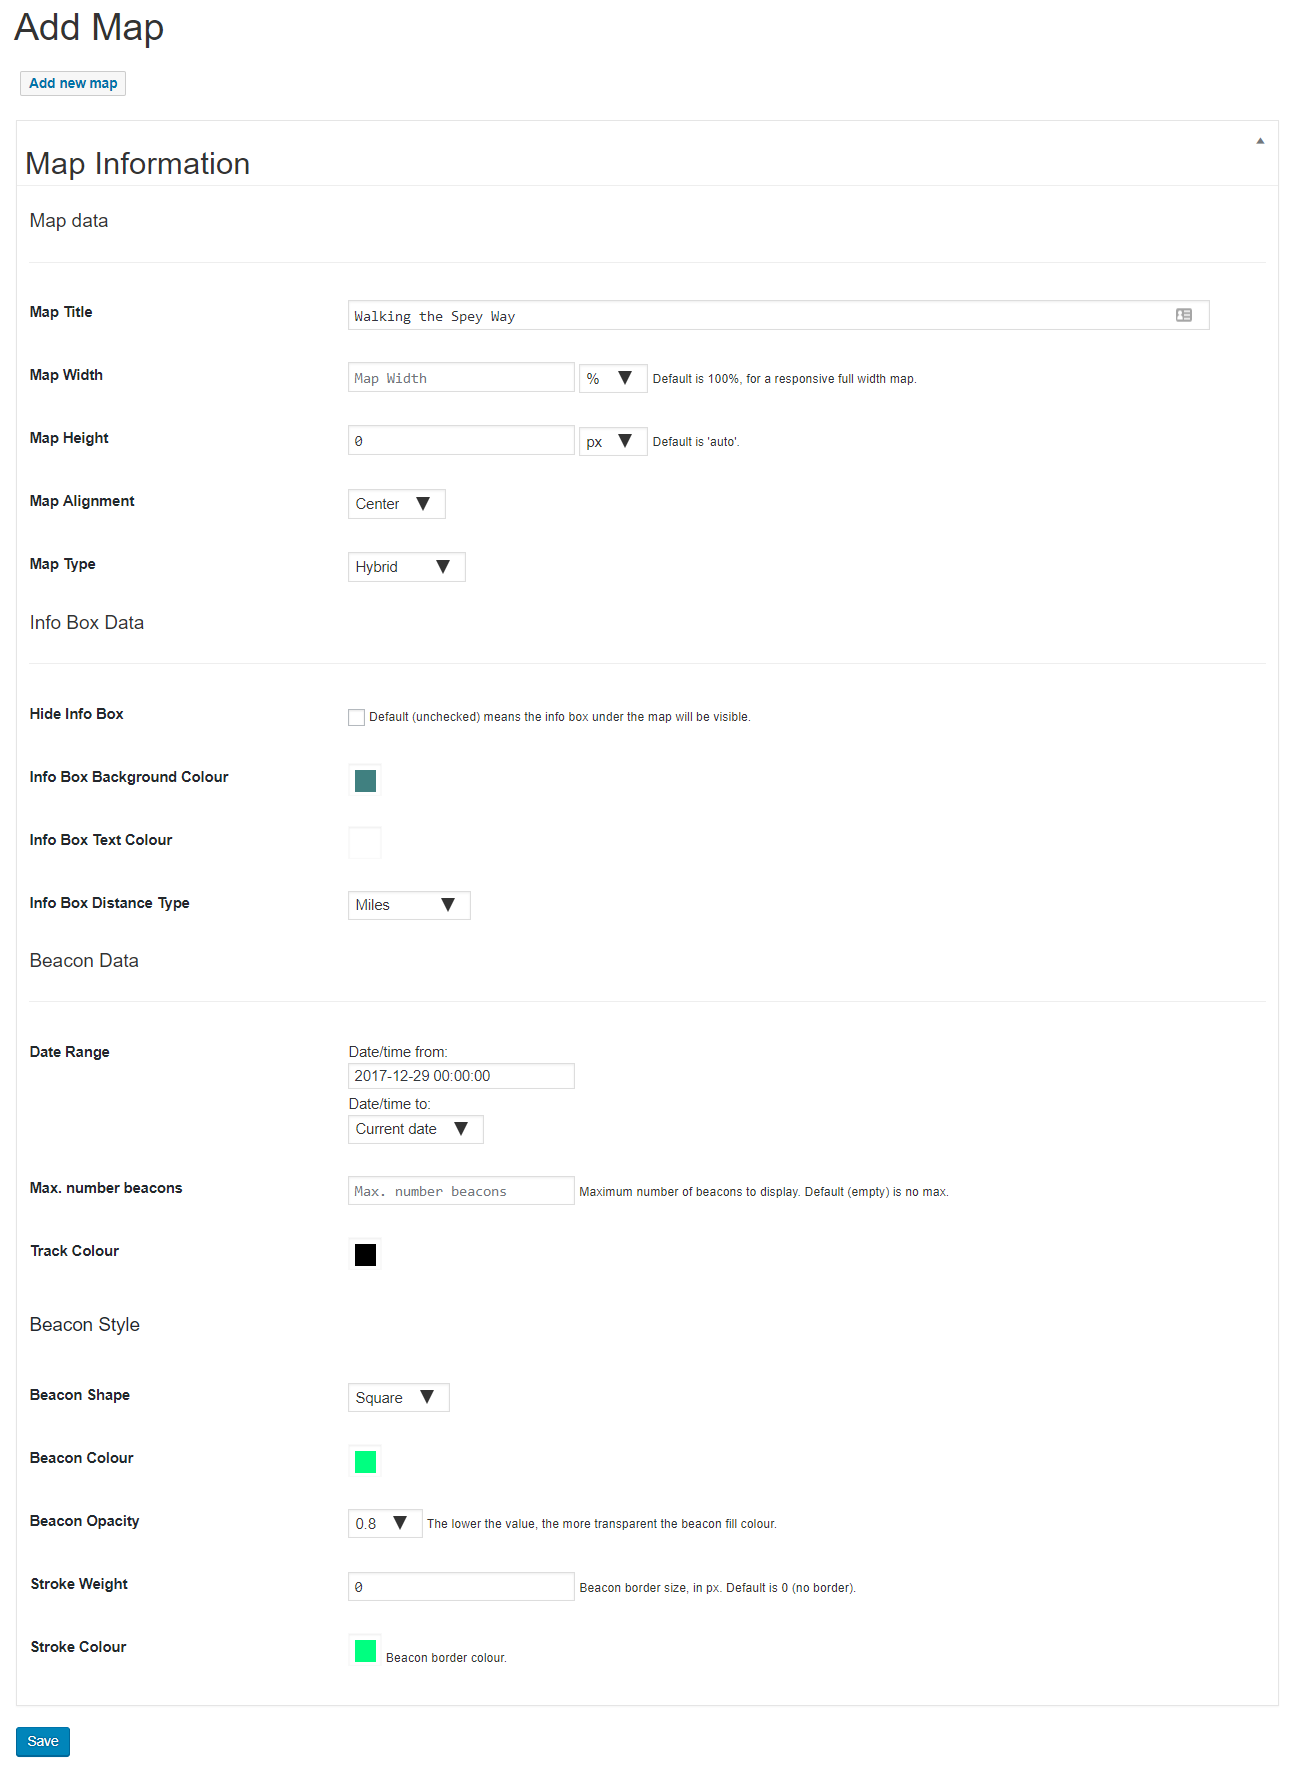
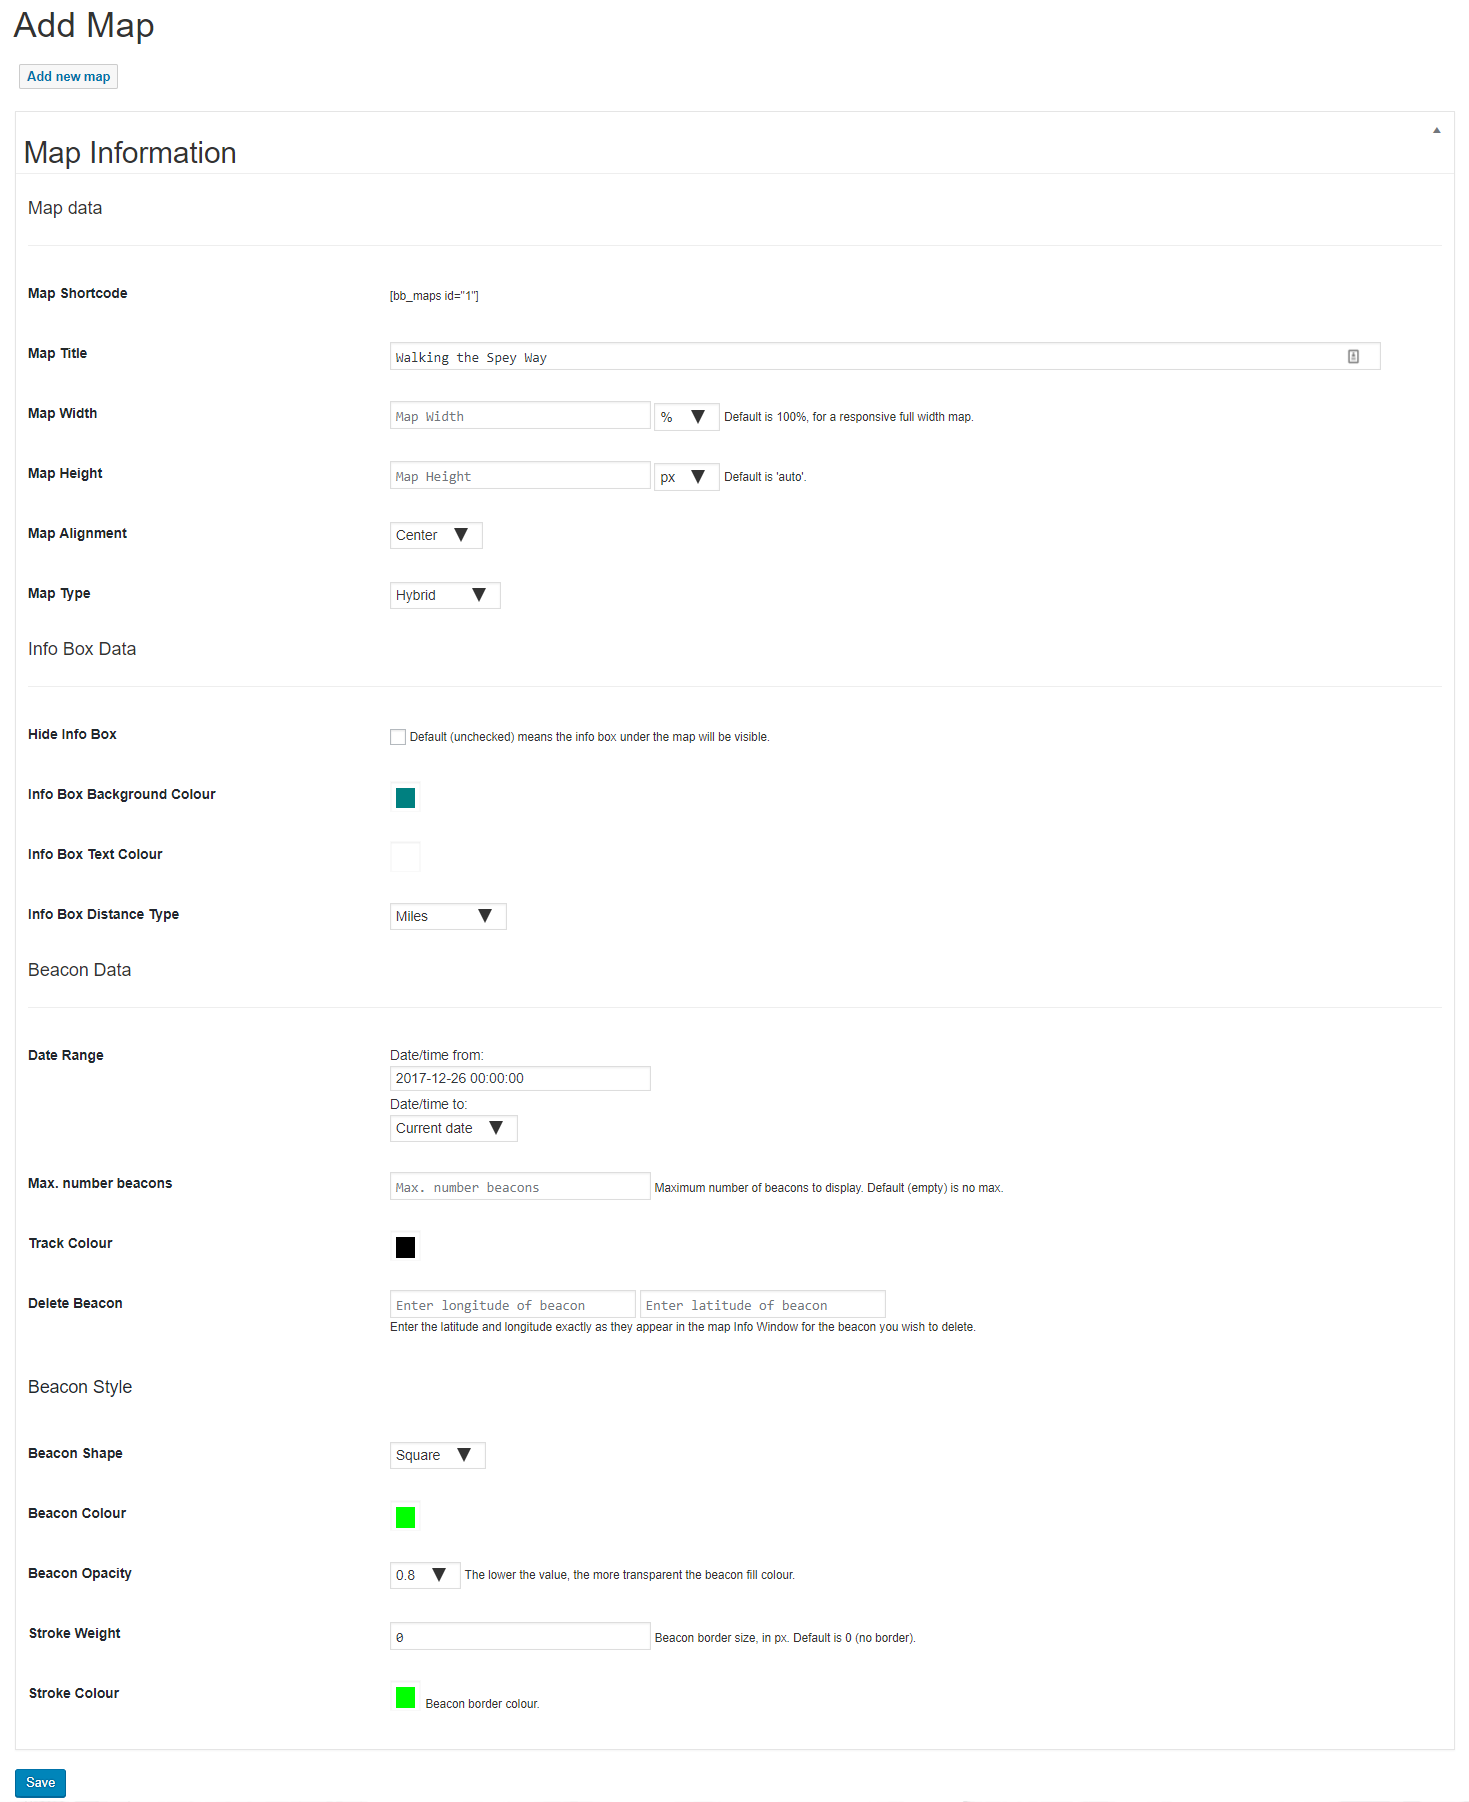
Adding ability to delete beacons, plus showing beacon at beginning of map route

diff --git a/pub/js/buddybeacon-maps-public.js b/pub/js/buddybeacon-maps-public.js
@@ -57,9 +57,12 @@ function gm_authFailure() {
 			var mapdatasingle = JSON.parse(php_vars_id);
 			var arr2 = mapdatasingle["maparray"].arr;
 			var maptype = mapdatasingle["maparray"].maptype;
+			
 
 			//If the map canvas id matches the id in array
 			if ($(".map-canvas").is('#'+arr[j])) {
+
+				var mapid = arr[j];
 		
 				var mapdatas = mapdatasingle;
 
@@ -69,23 +72,75 @@ function gm_authFailure() {
 				//Creating an empty array to store the converted data in
 				var coordinates = [];
 
+				//Create another empty array to store all beacon coordinates minus deleted beacon coordinates
+				var coordinatesdel = []; 
+
+
+
 				// Converting the JSON data into a Javascript array
 				for (let i = 0; i < jslocations.length; i++) {
 
 					var longitudes = parseFloat(jslocations[i].LONGITUDE);
 					var latitudes = parseFloat(jslocations[i].LATITUDE);
+					var beacondateraw =  moment(mapdatas["url"].VIEWRANGER.LOCATIONS[i].DATE).format('MMMM Do YYYY HH:mm:ss');
+					var altituderaw = mapdatas["url"].VIEWRANGER.LOCATIONS[i].ALTITUDE;
+			
+			
+
 					coordinates.push({
 						lat: latitudes,
-						lng: longitudes
+						lng: longitudes,
+						date: beacondateraw,
+						alt: altituderaw
 					});
 				}
 
+				coordinatesdel = coordinates;
+			
+				// Pulling out the array of coordinates that are to be deleted
+				var deletecoords = mapdatas["maparray"].deletearray;
+
+
+				// Make sure we iterate through the deletedcoords array as many times as there are coordinates
+				// to make sure we don't miss duplicates
+				for (let r = 0; r < coordinates.length; r++) {
+
+					// Iterate through each deletecoords array item.
+					for(let m = 0; m < deletecoords.length; m++) {
+
+						// Pulling out the map id as stored in the deletedcoords array
+						var deletedcoordsid = deletecoords[m][2];
+
+						// If the id matches
+						if ( deletedcoordsid == mapid) {
+
+							// Iterate through each original coordinates item
+							for (let n = 0; n < coordinates.length; n++) {
+
+								// If the lat and lng of each individual beacon matches the lat and lng of any of those
+								// in the coordinates array
+								if ((parseFloat(deletecoords[m][0]) == coordinates[n]['lat'] ) && (parseFloat(deletecoords[m][1]) == coordinates[n]['lng'] ) ) {
+
+									// Delete that item in the array of coordinates that holds only undeleted coordinates
+									coordinatesdel.splice(n,1);
+	
+								}
+		
+							}
+
+						}
+
+					} // end loop iterating through each deletecoords array item
+
+				} // end final for loop
+
+				
 				// Defining a map bound
 				var bound = new google.maps.LatLngBounds();
 
-				for (let l = 0; l < jslocations.length; l++) {  
+				for (let l = 0; l < coordinates.length; l++) {  
 
-				  	bound.extend( new google.maps.LatLng(jslocations[l].LATITUDE, jslocations[l].LONGITUDE) ); // <- make sure to edit this
+				  	bound.extend( new google.maps.LatLng(coordinates[l]['lat'], coordinates[l]['lng']) ); // <- make sure to edit this
 
 				}
 
@@ -144,17 +199,16 @@ function gm_authFailure() {
 
 
 			    // Variables to aid in determining distance between beacons (in for loop below)
-			    var numberCoords = jslocations.length - 1; 
+			    var numberCoords = coordinates.length - 1; 
 			    var totaldistance = 0;
 			    var distancescombined = 0;
-
-			    // For each coordinate, add marker and infowindow, then distance travelled between each in 
-			    // order to determine total distance travelled
 			    var coord = 0;
 
-		     	for( let k = 0; k < (coordinates.length - 1); k++ )  { 
+			    // For each coordinate (including first and last), add marker and infowindow
+		     	for( let k = 0; k < (coordinates.length); k++ )  { 
 
 			        var positions = new google.maps.LatLng(coordinates[k]); 
+	
 
 			        marker = new google.maps.Marker({
 			            position: positions,
@@ -162,20 +216,24 @@ function gm_authFailure() {
 			            icon: icon,
 		 	            title: coordinates[k][0]  
 			        });
-
+			   
 			        var latit = "<strong>Latitude:</strong> " + coordinates[k].lat + "&#176; <br/>"; 
 			        var longit = "<strong>Longitude:</strong> " + coordinates[k].lng + "&#176; <br/>"; 
-			      	var dateraw = moment(mapdatas["url"].VIEWRANGER.LOCATIONS[k].DATE).format('MMMM Do YYYY HH:mm:ss');		
-			       	var beacondate = "<strong>Date:</strong> " + dateraw + " <br/>";
-			        var altitude = "<strong>Altitude:</strong> " + mapdatas["url"].VIEWRANGER.LOCATIONS[k].ALTITUDE + "m <br/>";
+					var beacondate = "<strong>Date:</strong> " + coordinates[k].date + " <br/>";
+			        var altitude = "<strong>Altitude:</strong> " + coordinates[k].alt + "m <br/>";
 			        var message = beacondate + altitude + latit + longit;
 
 			        // Add the infowindow
 			        addInfoWindow(marker, message);
-			        
+
+			    }
+
+			    // For each coordinate, calculate the distance travelled between each in 
+			    // order to determine total distance travelled
+			    for( let q = 0; q < (coordinates.length - 1); q++ )  { 
 
 					// Calculating distance travelled between each beacon
-					var coord2 = k+1;
+					var coord2 = q+1;
 					var startlat = coordinates[coord].lat;  
 				    var startlng = coordinates[coord].lng;  
 				    var startLatLng = new google.maps.LatLng(startlat, startlng);
@@ -185,7 +243,6 @@ function gm_authFailure() {
 				    var distancescombined =  google.maps.geometry.spherical.computeDistanceBetween(startLatLng, endLatLng);
 				    var totaldistance = totaldistance + distancescombined;
 				    var coord = coord+1;
-
 
 			    } //end for loop
 
@@ -211,7 +268,6 @@ function gm_authFailure() {
 			    	outputdistance.innerHTML = 'Distance: ' + distanceinkm + 'km';
 
 	    		}
-	   	 
 
 	    		// Create the flightpath - the polylines between markers
 			    var flightPath = new google.maps.Polyline({

diff --git a/admin/css/buddybeacon-maps-admin.css b/admin/css/buddybeacon-maps-admin.css
@@ -84,3 +84,7 @@ input[type="color"]::-webkit-color-swatch {
 }
 
 
+#beacon_delete_lon, #beacon_delete_lat {
+width: 250px;
+}
+

diff --git a/admin/class-buddybeacon-maps-admin.php b/admin/class-buddybeacon-maps-admin.php
@@ -179,6 +179,8 @@ class BuddyBeacon_Maps_Admin {
             'daterange_to' => $dateTime,     
             'number_beacons' => '',
             'track_colour' => '#ff0000',
+            'beacon_delete_lon' => '',
+            'beacon_delete_lat' => '',
             'beacon_shape' => '',
             'beacon_colour' => '#ff0000',
             'beacon_opacity' => '0.8',
@@ -516,6 +518,21 @@ class BuddyBeacon_Maps_Admin {
                     </td>
                 </tr>
 
+                  <!-- Form field for deleting beacons -->
+                <tr class="form-field">
+                    <th valign="top" scope="row">
+                        <label for="beacon_delete_lon"><?php _e('Delete Beacon', 'buddybeacon-maps')?></label>
+                    </th>
+                    <td>
+                        <input id="beacon_delete_lon" name="beacon_delete_lon" type="text"  value="<?php echo ($item['beacon_delete_lon'])?>"
+                               size="50" class="code" placeholder="<?php _e('Enter longitude of beacon', 'buddybeacon-maps')?>">
+                                <input id="beacon_delete_lat" name="beacon_delete_lat" type="text"  value="<?php echo ($item['beacon_delete_lat'])?>"
+                               size="50" class="code" placeholder="<?php _e('Enter latitude of beacon', 'buddybeacon-maps')?>" >
+                               <br/><small>Enter the latitude and longitude exactly as they appear in the map Info Window for the beacon you wish to delete.</small>
+                    </td>
+                </tr>
+                
+
 
                 <!-- Beacon style sub-heading -->
                 <tr class="form-field">
@@ -623,6 +640,11 @@ class BuddyBeacon_Maps_Admin {
         if (!ctype_digit($item['stroke_weight'])) $messages[] = __('Stroke weight in wrong format', 'buddybeacon-maps');
 
         if(($item['daterange_to'] < $item['daterange_from']) ) $messages[] = __('"To" date and time earlier than "From" date and time', 'buddybeacon-maps');
+
+         if (($item['beacon_delete_lon'] != '') && !is_numeric($item['beacon_delete_lon'])) $messages[] = __('"Delete Beacon" longitude in wrong format', 'buddybeacon-maps');
+          if (($item['beacon_delete_lat'] != '') && !is_numeric($item['beacon_delete_lat'])) $messages[] = __('"Delete Beacon" latitude in wrong format', 'buddybeacon-maps');
+
+            if ((($item['beacon_delete_lon'] != '') && ($item['beacon_delete_lat'] == '')) || (($item['beacon_delete_lon'] == '') && ($item['beacon_delete_lat'] != '')) ) $messages[] = __('Both longitude and latitude needed in order to delete beacon.');
 
         if (empty($messages)) return true;
 

diff --git a/pub/class-buddybeacon-maps-public.php b/pub/class-buddybeacon-maps-public.php
@@ -113,6 +113,8 @@ class BuddyBeacon_Maps_Public {
 					$mapheight = 'auto';
 				}
 
+				$footeralignmentcode = '';
+
 
 				//Check map alignment and create CSS accordingly
 				if ($mapalignment == 'Left') {
@@ -294,6 +296,53 @@ class BuddyBeacon_Maps_Public {
 		$beacon_opacity = $item['beacon_opacity'];
 		$stroke_weight = $item['stroke_weight'];
 		$stroke_colour = $item['stroke_colour'];
+		$beacon_delete_lon = $item['beacon_delete_lon'];
+		$beacon_delete_lat = $item['beacon_delete_lat'];
+
+		$deletearray = get_option("delete_array");
+
+		// Here we check if our array of deleted coordinates is empty. If so we add the option.
+		if (empty($deletearray)) {
+			
+			add_option("delete_array", array(1 => array($beacon_delete_lat, $beacon_delete_lon, $mapid)));
+
+		}
+
+		// If not empty, we add to the array, but only if beacon coordinates aren't already inputted
+		else {
+
+			$break = false;
+			foreach ($deletearray as $value => $key ) {
+				
+				if ((($deletearray[$value][0]) == $beacon_delete_lat) && (($deletearray[$value][1]) == $beacon_delete_lon) && (($deletearray != null) && (isset($deletearray[$value][2])))) {
+					
+					if ($deletearray[$value][2] == $mapid) {
+						$break = true;
+					}
+
+				}
+
+			} // end foreach
+
+			if ($break == false) {
+
+				$int = sizeof($deletearray) + 1;
+				$deletearray = array_merge($deletearray, array($int => array($beacon_delete_lat, $beacon_delete_lon, $mapid)));
+				
+				update_option("delete_array", $deletearray);
+			
+			}
+			
+			
+			// Then we want to clear the beacon_delete_lon and beacon_delete_lat options from the DB.
+			global $wpdb;
+			$table_name = $wpdb->prefix.'maps';
+			$wpdb->update( $table_name, array( 'beacon_delete_lon' => "", 'beacon_delete_lat' => ""), array( "ID" => $item['id'], "ID" => $item['id']));
+   
+		}
+
+		$deletearray = get_option("delete_array");
+
 
 		// Create an array of all shortcode ids (if more than one on a page) to add to map data array
     	global $arr;  
@@ -307,7 +356,7 @@ class BuddyBeacon_Maps_Public {
 	 
 
 		//We then put these variables into an array
-		$maparray = compact("maptype", "ib_distance", "track_colour", "beacon_shape", "beacon_colour", "beacon_opacity", "stroke_weight", "stroke_colour", "arr");
+		$maparray = compact("maptype", "ib_distance", "track_colour", "deletearray", "beacon_shape", "beacon_colour", "beacon_opacity", "stroke_weight", "stroke_colour", "arr");
 
 		$args = array( 'timeout' => 120 );
 

diff --git a/buddybeacon-maps.php b/buddybeacon-maps.php
@@ -8,7 +8,7 @@
  * Plugin Name:       BuddyBeacon Maps
  * Plugin URI:        https://karenattfield.com/buddybeacon-maps/
  * Description:       Serving map tracks in real time via ViewRanger BuddyBeacon 
- * Version:           0.1.0
+ * Version:           1.0.0
  * Author:            Karen Attfield
  * Author URI:        https://karenattfield.com
  * License: 		  GNU General Public License v2 or later
@@ -22,7 +22,7 @@ if ( ! defined( 'WPINC' ) ) {
 	die;
 }
 
-define( 'BUDDYBEACON_MAPS_VERSION', '0.1.0' );
+define( 'BUDDYBEACON_MAPS_VERSION', '1.0.0' );
 
 /**
  * The code that runs during plugin activation.

diff --git a/uninstall.php b/uninstall.php
@@ -22,10 +22,14 @@ function delete_tables() {
 
 }
 
-$option_name = 'buddybeacon-maps-settings'; 
-delete_option($option_name);
+$settings_option = 'buddybeacon-maps-settings'; 
+$delete_option = 'delete_array';
+delete_option($settings_option);
  // for site options in Multisite
-delete_site_option($option_name);
+delete_site_option($settings_option);
+delete_option($delete_option);
+ // for site options in Multisite
+delete_site_option($delete_option);
 
 delete_tables();
 

diff --git a/inc/class-buddybeacon-maps-activator.php b/inc/class-buddybeacon-maps-activator.php
@@ -56,6 +56,8 @@ class BuddyBeacon_Maps_Activator {
       daterange_to datetime(6) NOT NULL,
       number_beacons int(11) NULL,
       track_colour varchar(10) NOT NULL,
+      beacon_delete_lon varchar(20) NULL,
+      beacon_delete_lat varchar(20) NULL,
       beacon_shape varchar(10) NOT NULL,
       beacon_colour varchar(10) NOT NULL,
       beacon_opacity varchar(10) NOT NULL,

diff --git a/README.md b/README.md
@@ -4,7 +4,7 @@
 **Tags:** google maps, viewranger, buddybeacon, live maps, map routes, live tracking, shortcode  
 **Requires at least:** 4.4  
 **Tested up to:** 5.0  
-**Stable tag:** 0.1.0  
+**Stable tag:** 1.0.0  
 **License:** GPLv2 or later  
 **License URI:** https://www.gnu.org/licenses/gpl-2.0.html  
 
@@ -28,6 +28,7 @@ To display a map in a page or post just add the shortcode: [bb_maps id="{id}"] w
 * Customize your map display - satellite, hybrid, terrain or roadmap. 
 * Display map route information - total distance covered (in km or miles), date range, map title.
 * Display individual beacon information via Google Maps InfoWindows (showing latitute, longitude, altitude and date).
+* Delete beacons from routes.
 * Manage all your maps from the manage maps settings page.
 * Use a shortcode to display your chosen map in any page or post.
 
@@ -68,12 +69,18 @@ Feel free to get in touch with any ideas you have, or even better contribute to 
 
 ## Changelog 
 
+### 1.0.0
+* First stable release
+* Editing map route: adding beacon to start of route
+* Adding capability to delete beacons from individual maps
 
 ### 0.1.0 
 * Initial release
 
 ## Upgrade Notice 
 
+### 1.0.0
+* First stable release. Adding beacon to route start, and adding capability to delete beacons.
 
 ### 0.1.0 
 * Initial release, no upgrade notice
